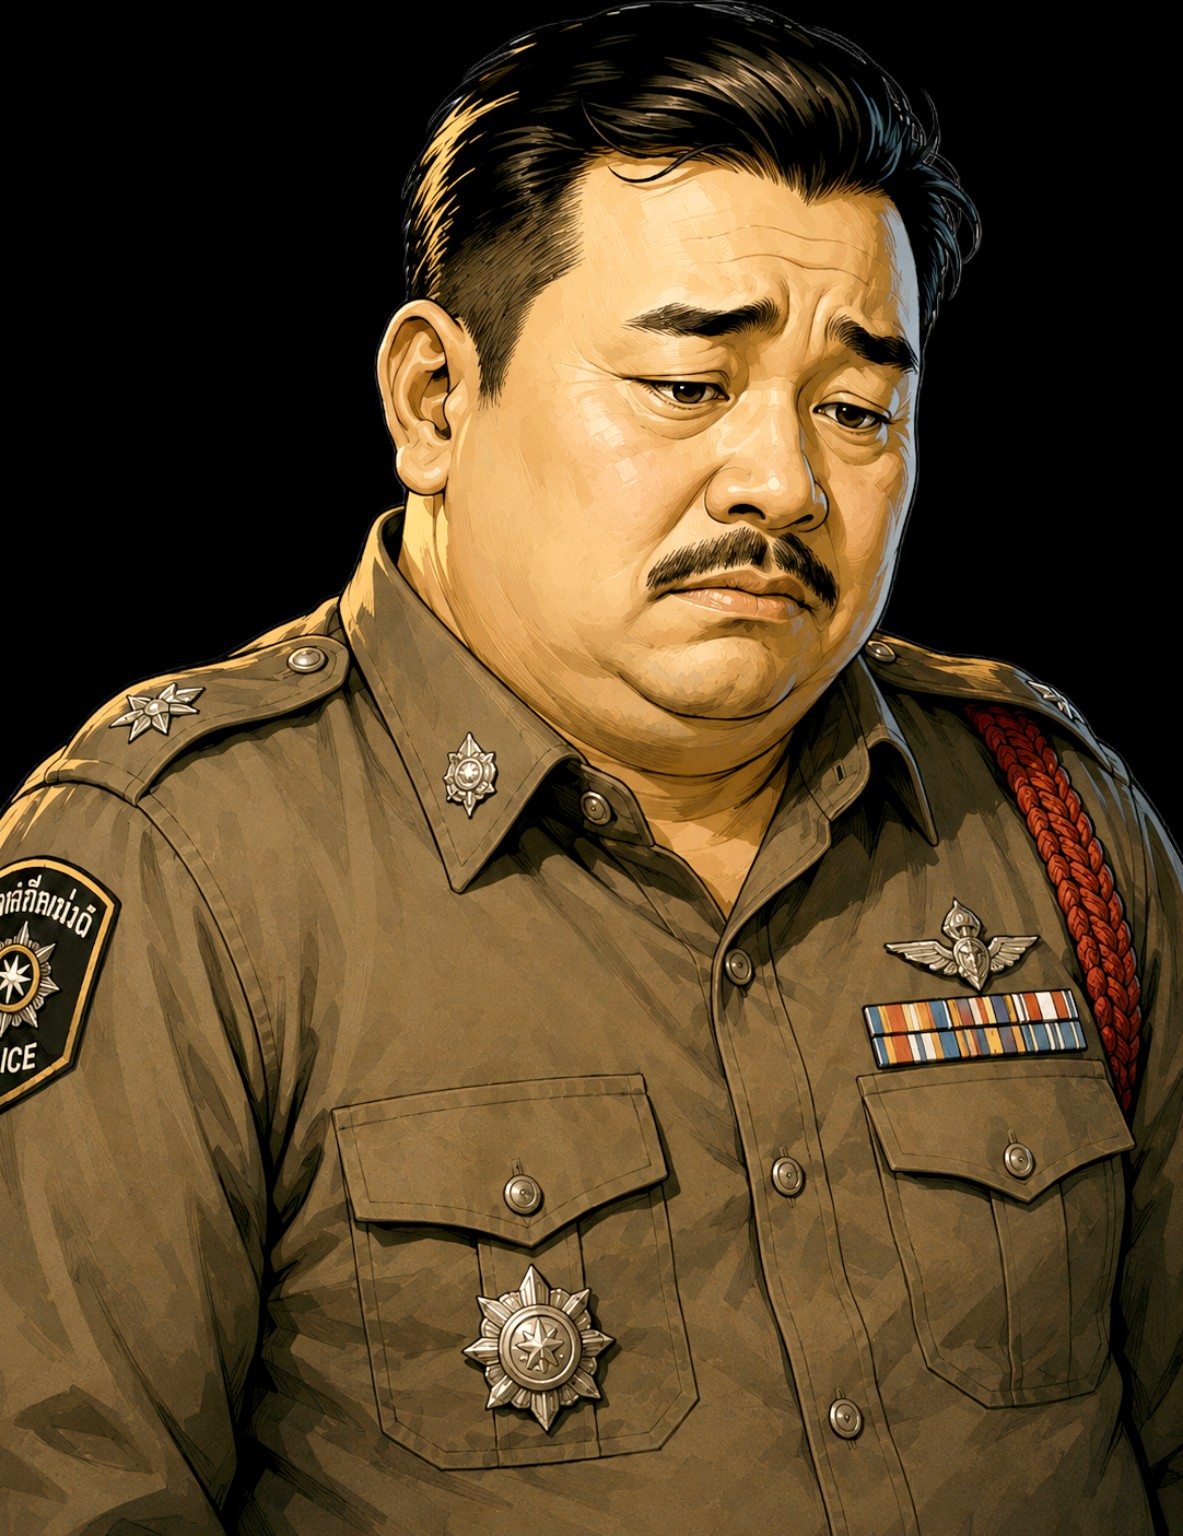
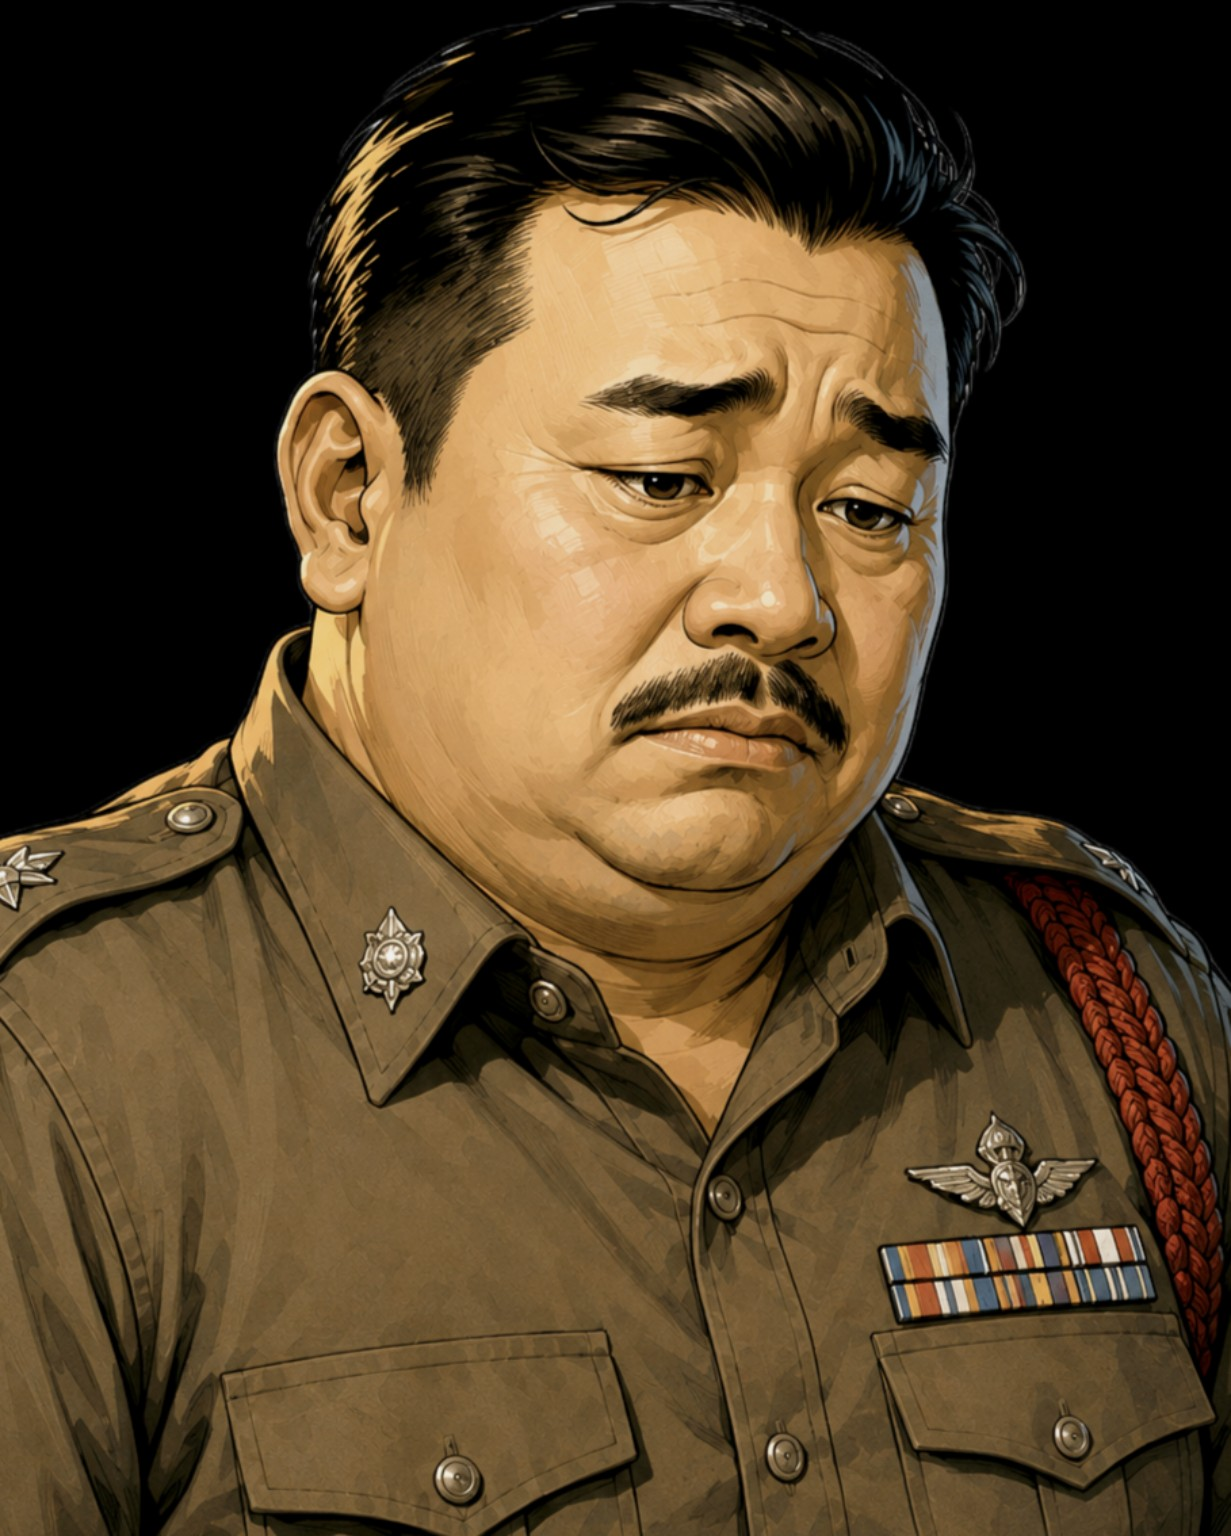
fix ch5p1 somchai portrait and ui

diff --git a/js/chapters/chapter-05/01-return-to-bangkok.js b/js/chapters/chapter-05/01-return-to-bangkok.js
@@ -1,19 +1,19 @@
-/* LAST WITNESS - Chapter V / Phase I: RETURN TO BANGKOK 0.22.7-c5p1r2
+/* LAST WITNESS - Chapter V / Phase I: RETURN TO BANGKOK 0.22.7-c5p1r4
  * Production Chapter V opening. Reuses the accepted Phase V/VII ordinary-scene
  * shell and Phase IV/VII location/completion language. Only CUSTODY WINDOW is
  * bespoke. No Hidden Case values are displayed or mutated here.
  */
 (function(){
 "use strict";
-const VERSION="0.22.7-c5p1r2";
+const VERSION="0.22.7-c5p1r4";
 if(window.LastWitnessChapter5Phase1?.version===VERSION){try{window.LastWitnessChapter5Phase1.install?.()}catch(_){}return}
 
 const BASE="assets/images/chapter-05/phase-01/";
 const VIDEO="assets/video/chapter-05/phase-01/";
 const AUDIO="assets/audio/chapter-05/phase-01/";
 const POLICE_IMAGE="assets/images/b06c89de9255c034.png";
-const SOMCHAI_SHOCK=BASE+"somchai-shocked.png?v=0227c5p1r2";
-const SOMCHAI_SAD=BASE+"somchai-sad.png?v=0227c5p1r2";
+const SOMCHAI_SHOCK=BASE+"somchai-shocked.png?v=0227c5p1r4";
+const SOMCHAI_SAD=BASE+"somchai-sad.png?v=0227c5p1r4";
 
 const LANDING="ch5P1Landing";
 const ARRIVAL="ch5P1ArrivalCard";
@@ -80,19 +80,19 @@ function scene(id,image,labelId,extra=""){return `<section id="${id}" class="scr
 function inject(){
  if($("#"+LANDING))return true;const game=$("#game");if(!game)return false;
  game.insertAdjacentHTML("beforeend",`
- <section id="${LANDING}" class="screen ch5-p1-video"><video id="ch5P1LandingVideo" playsinline webkit-playsinline preload="auto"><source src="${VIDEO}bangkok-landing.mp4?v=0227c5p1" type="video/mp4"></video><div class="ch4-p5-shade"></div><div id="ch5P1LandingStatus" class="ch5-p1-video-status"></div><button id="ch5P1LandingPlay" class="primary ch5-p1-video-play" type="button" hidden></button><button id="ch5P1LandingSkip" class="ghost ch5-p1-skip" type="button"></button></section>
+ <section id="${LANDING}" class="screen ch5-p1-video"><video id="ch5P1LandingVideo" playsinline webkit-playsinline preload="auto"><source src="${VIDEO}bangkok-landing.mp4?v=0227c5p1r4" type="video/mp4"></video><div class="ch4-p5-shade"></div><div id="ch5P1LandingStatus" class="ch5-p1-video-status"></div><button id="ch5P1LandingPlay" class="primary ch5-p1-video-play" type="button" hidden></button><button id="ch5P1LandingSkip" class="ghost ch5-p1-skip" type="button"></button></section>
  <section id="${ARRIVAL}" class="screen ch4-p4-location"><div id="ch5P1ArrivalCardInner" class="ch4-p4-location-card"><div id="ch5P1ArrivalEye" class="eyebrow"></div><div id="ch5P1ArrivalCity" class="ch4-p4-location-city"></div><h2 id="ch5P1ArrivalName"></h2><div class="ch4-p4-location-rule"></div><p id="ch5P1ArrivalBody"></p></div></section>
  ${scene(POLICE,POLICE_IMAGE,"ch5P1PoliceLocation")}
- ${scene(BRIEFING,BASE+"police-briefing-room.png?v=0227c5p1","ch5P1BriefingLocation")}
- <section id="${WALK}" class="screen ch5-p1-video"><video id="ch5P1WalkVideo" playsinline webkit-playsinline preload="auto"><source src="${VIDEO}walk-to-condo.mp4?v=0227c5p1" type="video/mp4"></video><div class="ch4-p5-shade"></div><div id="ch5P1WalkStatus" class="ch5-p1-video-status"></div><button id="ch5P1WalkPlay" class="primary ch5-p1-video-play" type="button" hidden></button><button id="ch5P1WalkSkip" class="ghost ch5-p1-skip" type="button"></button></section>
+ ${scene(BRIEFING,BASE+"police-briefing-room.png?v=0227c5p1r4","ch5P1BriefingLocation")}
+ <section id="${WALK}" class="screen ch5-p1-video"><video id="ch5P1WalkVideo" playsinline webkit-playsinline preload="auto"><source src="${VIDEO}walk-to-condo.mp4?v=0227c5p1r4" type="video/mp4"></video><div class="ch4-p5-shade"></div><div id="ch5P1WalkStatus" class="ch5-p1-video-status"></div><button id="ch5P1WalkPlay" class="primary ch5-p1-video-play" type="button" hidden></button><button id="ch5P1WalkSkip" class="ghost ch5-p1-skip" type="button"></button></section>
  <section id="${CONDO_CARD}" class="screen ch4-p4-location"><div id="ch5P1CondoCardInner" class="ch4-p4-location-card"><div id="ch5P1CondoEye" class="eyebrow"></div><div id="ch5P1CondoCity" class="ch4-p4-location-city"></div><h2 id="ch5P1CondoName"></h2><div class="ch4-p4-location-rule"></div><p id="ch5P1CondoBody"></p><button id="ch5P1CondoContinue" class="primary" type="button"></button></div></section>
- ${scene(CONDO,BASE+"benedict-condo-interior.jpg?v=0227c5p1","ch5P1CondoLocation")}
- ${scene(REVEAL,BASE+"north-safehouse-reveal.jpg?v=0227c5p1","ch5P1RevealLocation","ch5-p1-reveal")}
+ ${scene(CONDO,BASE+"benedict-condo-interior.jpg?v=0227c5p1r4","ch5P1CondoLocation")}
+ ${scene(REVEAL,BASE+"north-safehouse-reveal.jpg?v=0227c5p1r4","ch5P1RevealLocation","ch5-p1-reveal")}
  <div id="ch5P1Custody" class="modal ch5-p1-custody" aria-hidden="true"><div class="modal-card"><header class="ch5-p1-custody-head"><div class="eyebrow" id="ch5P1CustodyEye"></div><h3 id="ch5P1CustodyTitle"></h3><p id="ch5P1CustodyBody"></p><button id="ch5P1CustodyClose" class="ghost ch5-p1-custody-close" type="button" aria-label="Close">×</button><div class="ch5-p1-step"><span id="ch5P1CustodyStepLabel"></span><div><i id="ch5P1CustodyStepFill"></i></div></div></header><div class="ch5-p1-custody-scroll"><div id="ch5P1CustodyAirborne" class="ch5-p1-airborne"></div><div id="ch5P1CustodyWork"></div></div><div id="ch5P1CustodyStatus" class="ch5-p1-custody-status" aria-live="polite"></div><footer class="ch5-p1-custody-foot"><button id="ch5P1CustodyReset" class="ghost" type="button"></button><button id="ch5P1CustodyConfirm" class="primary" type="button"></button></footer></div></div>
  <div id="ch5P1Influence" class="modal ch5-p1-influence" aria-hidden="true"><div class="modal-card"><div class="eyebrow" id="ch5P1InfluenceEye"></div><h3 id="ch5P1InfluenceTitle"></h3><p id="ch5P1InfluenceBody"></p><div id="ch5P1InfluenceGrid" class="ch5-p1-influence-grid"></div></div></div>
  <section id="${COMPLETE}" class="screen ch4-p4-complete ch5-p1-complete"><div class="ch4-p4-complete-card"><div id="ch5P1CompleteEye" class="eyebrow"></div><h2 id="ch5P1CompleteTitle"></h2><div class="ch4-p4-location-rule"></div><p id="ch5P1CompleteBody"></p><div class="ch4-p4-complete-grid"><div><span id="ch5P1ResultReturn"></span><b id="ch5P1ValueReturn"></b></div><div><span id="ch5P1ResultNorth"></span><b id="ch5P1ValueNorth"></b></div><div><span id="ch5P1ResultCustody"></span><b id="ch5P1ValueCustody"></b></div><div><span id="ch5P1ResultRoom"></span><b id="ch5P1ValueRoom"></b></div></div><strong id="ch5P1Next"></strong><button id="ch5P1ReturnTitle" class="primary" type="button"></button></div>${progressMarkup()}</section>
- <audio id="ch5P1OpeningScore" preload="auto" src="${AUDIO}opening-scene-c5p1.mp3?v=0227c5p1"></audio>
- <audio id="ch5P1WalkScore" preload="auto" src="${AUDIO}walk-to-condo-scene.mp3?v=0227c5p1"></audio>`);
+ <audio id="ch5P1OpeningScore" preload="auto" src="${AUDIO}opening-scene-c5p1.mp3?v=0227c5p1r4"></audio>
+ <audio id="ch5P1WalkScore" preload="auto" src="${AUDIO}walk-to-condo-scene.mp3?v=0227c5p1r4"></audio>`);
  bindUi();updateLanguage();syncProgress();return true
 }
 
@@ -102,9 +102,13 @@ function recordLine(line){try{const s=gs();s.history=s.history||[];s.history.pus
 function renderDialogue(){
  const box=dialogueBox();if(!box||!dialogue)return;const line=dialogue.lines[dialogue.i];if(!line)return;
  const right=line.speaker!=="Benedict",src=originalPortrait(line.speaker,line.emotion||"neutral");
- box.className="dialogue ch4-p5-dialogue ch5-p1-dialogue"+(right?" right":"");
- const portraitClass=line.speaker==="Somchai"?"portrait ch5-p1-somchai-portrait":"portrait";
- box.innerHTML=`<div class="portrait-wrap">${src?`<img class="${portraitClass}" src="${src}" alt="">`:""}</div><div class="dialogue-copy"><div class="speaker">${line.speaker}</div><div class="line">${thai()?line.th:line.en}</div><div class="next">${tr("Tap to continue","แตะเพื่อดำเนินต่อ")}</div></div>`;
+ const speakerKey=String(line.speaker||"character").toLowerCase().replace(/[^a-z0-9]+/g,"-");
+ box.className="dialogue ch4-p5-dialogue ch5-p1-dialogue ch5-p1-speaker-"+speakerKey+(right?" right":"");
+ const portraitClass=["portrait","ch5-p1-portrait","ch5-p1-speaker-"+speakerKey+"-portrait"];
+ if(line.speaker==="Somchai")portraitClass.push("ch5-p1-somchai-portrait");
+ if(line.speaker==="North")portraitClass.push("ch5-p1-north-portrait");
+ if(line.speaker==="Benedict")portraitClass.push("ch5-p1-benedict-portrait");
+ box.innerHTML=`<div class="portrait-wrap">${src?`<img class="${portraitClass.join(" ")}" src="${src}" alt="">`:""}</div><div class="dialogue-copy"><div class="speaker">${line.speaker}</div><div class="line">${thai()?line.th:line.en}</div><div class="next">${tr("Tap to continue","แตะเพื่อดำเนินต่อ")}</div></div>`;
  dialogueActive=true;syncAudio()
 }
 function startDialogue(lines,onDone){dialogue={lines:clone(lines),i:0,onDone};recordLine(dialogue.lines[0]);renderDialogue()}

diff --git a/css/chapter-05-phase-01.css b/css/chapter-05-phase-01.css
@@ -1,4 +1,4 @@
-/* LAST WITNESS - Chapter V / Phase I: RETURN TO BANGKOK 0.22.7-c5p1r2
+/* LAST WITNESS - Chapter V / Phase I: RETURN TO BANGKOK 0.22.7-c5p1r4
  * Reuse-first production surface. Ordinary scenes inherit the accepted
  * Chapter IV Phase V / VII shell; only CUSTODY WINDOW is bespoke.
  */
@@ -26,6 +26,32 @@
 .ch5-p1-scene-note{position:absolute;z-index:13;top:calc(151px + env(safe-area-inset-top));left:16px;right:16px;max-width:570px;color:#aebbc0;font:700 10px/1.45 ui-monospace,monospace;letter-spacing:.055em;text-shadow:0 2px 8px #000}
 .ch5-p1-reveal>.scene{animation:ch5P1Reveal 5.8s cubic-bezier(.2,.62,.24,1) both;transform-origin:48% 35%}
 @keyframes ch5P1Reveal{from{transform:scale(1.005)}to{transform:scale(1.027)}}
+
+
+.ch5-p1-video-status{top:calc(58px + env(safe-area-inset-top));padding:8px 12px 8px 11px;background:linear-gradient(90deg,rgba(3,6,10,.88),rgba(3,6,10,.22) 82%,transparent)}
+#ch5P1WalkStatus{top:calc(42px + env(safe-area-inset-top))}
+
+.ch5-p1-dialogue.ch4-p5-dialogue{background:linear-gradient(180deg,rgba(6,10,16,.94),rgba(3,7,12,.92));border:1px solid rgba(221,181,109,.28);box-shadow:0 16px 36px rgba(0,0,0,.42),inset 0 1px 0 rgba(255,255,255,.03);backdrop-filter:blur(8px)}
+.ch5-p1-dialogue .portrait-wrap{position:relative;background:#05070b;overflow:hidden}
+.ch5-p1-dialogue .portrait-wrap::after{content:"";position:absolute;inset:0;background:linear-gradient(180deg,rgba(0,0,0,.02),rgba(0,0,0,.12));pointer-events:none}
+.ch5-p1-dialogue .dialogue-copy{position:relative;padding:16px 18px 31px;background:linear-gradient(180deg,rgba(5,8,13,.92),rgba(3,6,10,.95));overflow:hidden}
+.ch5-p1-dialogue .dialogue-copy::before{content:"";position:absolute;inset:0;background:rgba(4,7,12,.18);pointer-events:none}
+.ch5-p1-dialogue .speaker,.ch5-p1-dialogue .line,.ch5-p1-dialogue .next{position:relative;z-index:1}
+.ch5-p1-dialogue .speaker{margin-bottom:10px}
+.ch5-p1-dialogue .line{max-width:98%}
+.ch5-p1-dialogue .next{bottom:9px;right:14px}
+.ch5-p1-dialogue .portrait{width:100%;height:100%;object-fit:cover;object-position:center 16%;transform:none}
+.ch5-p1-dialogue .ch5-p1-portrait{transform:scale(.965);transform-origin:center 18%}
+.ch5-p1-dialogue.right .ch5-p1-portrait{transform:scale(.955);transform-origin:center 18%}
+.ch5-p1-dialogue .ch5-p1-north-portrait{object-position:56% 14%;transform:scale(.92);transform-origin:center 14%}
+.ch5-p1-dialogue .ch5-p1-benedict-portrait{object-position:50% 16%;transform:scale(.95)}
+.ch5-p1-dialogue .ch5-p1-somchai-portrait{object-fit:cover;object-position:50% 9%;transform:scale(1.02);transform-origin:center 12%;background:#000}
+
+#ch5P1Condo .scene{object-position:center 29%}
+#ch5P1NorthReveal .scene{object-position:center 24%}
+#ch5P1NorthReveal.ch5-p1-reveal>.scene{animation:ch5P1Reveal 5.8s cubic-bezier(.2,.62,.24,1) both;transform-origin:50% 26%}
+#ch5P1NorthRevealDialogue.ch5-p1-dialogue{bottom:calc(56px + var(--bottom,14px));min-height:174px}
+#ch5P1CondoDialogue.ch5-p1-dialogue{bottom:calc(58px + var(--bottom,14px))}
 
 /* CUSTODY WINDOW - bespoke internal interaction, established LAST WITNESS frame. */
 .ch5-p1-custody{z-index:455;background:radial-gradient(circle at 50% 14%,rgba(50,91,111,.19),transparent 40%),rgba(1,3,6,.92);backdrop-filter:blur(9px)}
@@ -81,10 +107,15 @@
 .ch5-p1-tool-note{margin-top:4px;color:#8f887e;font-size:9px;font-weight:800;letter-spacing:.12em}
 
 @media(max-width:520px){
- .ch5-p1-dialogue.ch4-p5-dialogue{min-height:164px;grid-template-columns:116px minmax(0,1fr)}
+ .ch5-p1-dialogue.ch4-p5-dialogue{min-height:168px;grid-template-columns:116px minmax(0,1fr)}
  .ch5-p1-dialogue.ch4-p5-dialogue.right{grid-template-columns:minmax(0,1fr) 116px}
  .ch5-p1-custody .modal-card{width:95vw;max-height:calc(100dvh - 16px)}
  .ch5-p1-custody-scroll{padding:12px 12px 7px}
  .ch5-p1-custody-foot{padding-left:12px;padding-right:12px}
+ .ch5-p1-dialogue .dialogue-copy{padding:15px 16px 30px}
+ .ch5-p1-dialogue .ch5-p1-north-portrait{transform:scale(.89);object-position:58% 13%}
+ .ch5-p1-dialogue .ch5-p1-somchai-portrait{transform:scale(1.01);object-position:50% 9%}
+ .ch5-p1-video-status{top:calc(54px + env(safe-area-inset-top))}
+ #ch5P1WalkStatus{top:calc(38px + env(safe-area-inset-top))}
 }
 html[lang="th"] .ch5-p1-video-status,html[lang="th"] .ch5-p1-record small,html[lang="th"] .ch5-p1-airborne,html[lang="th"] .ch5-p1-finding{letter-spacing:.025em}

diff --git a/js/engine/34-chapter-05-owner-walkthrough.js b/js/engine/34-chapter-05-owner-walkthrough.js
@@ -1,11 +1,11 @@
-/* LAST WITNESS - Chapter V Owner Walkthrough Extension 0.22.7-c5w1
+/* LAST WITNESS - Chapter V Owner Walkthrough Extension 0.22.7-c5w2
  * Read-only Chapter V Phase I extension for the accepted Owner Walkthrough UI.
  * It reads screen/checkpoint/Phase I state only and never mutates gameplay,
  * Save, Hidden Case, evidence, choices, progress, audio or North QA state.
  */
 (function(){
 "use strict";
-const VERSION="0.22.7-c5w1";
+const VERSION="0.22.7-c5w2";
 const BASE_VERSION="0.22.3-w1";
 if(window.LastWitnessChapter5OwnerWalkthrough?.version===VERSION){try{window.LastWitnessChapter5OwnerWalkthrough.install?.()}catch(_){}return}
 const $=(s,r=document)=>r.querySelector(s);
@@ -54,7 +54,7 @@ function render(){
  const fill=$("#lwWalkStepFill");if(fill)fill.style.width=`${((index+1)/STEPS.length)*100}%`;const badge=$("#lwWalkNoFail");if(badge)badge.hidden=!step.nofail;
  set("#lwWalkTitle",tr(step.title[0],step.title[1]));set("#lwWalkActionLabel",tr("NEXT ACTION","ทำอะไรต่อ"));set("#lwWalkAction",tr(step.action[0],step.action[1]));set("#lwWalkHintLabel",tr("HINT","คำใบ้"));set("#lwWalkHint",tr(step.hint[0],step.hint[1]));set("#lwWalkSolutionLabel",tr("VERIFIED SOLUTION","คำตอบที่ตรวจจาก Production"));set("#lwWalkSolution",tr(step.solution[0],step.solution[1]));
  const hb=$("#lwWalkHintBlock"),sb=$("#lwWalkSolutionBlock");if(hb)hb.hidden=!hint;if(sb)sb.hidden=!solution;set("#lwWalkHintButton",hint?tr("HIDE HINT","ซ่อนคำใบ้"):tr("HINT","คำใบ้"));set("#lwWalkSolutionButton",solution?tr("HIDE SOLUTION","ซ่อนคำตอบ"):tr("SHOW SOLUTION","แสดงคำตอบ"));
- const prev=$("#lwWalkPrev"),next=$("#lwWalkNext");if(prev)prev.disabled=index===0;if(next)next.disabled=index===STEPS.length-1;const pill=$("#lwOwnerWalkthroughPill");if(pill)pill.textContent=`WALKTHROUGH · C5P1 · ${index+1}/${STEPS.length}`;const build=$("#lwOwnerWalkthrough .lw-walk-build");if(build)build.textContent=`${BASE_VERSION} · C5 ${VERSION}`;return true
+ const prev=$("#lwWalkPrev"),next=$("#lwWalkNext");if(prev)prev.disabled=index===0;if(next)next.disabled=index===STEPS.length-1;const pill=$("#lwOwnerWalkthroughPill");if(pill)pill.textContent=`WALKTHROUGH · C5P1 · ${index+1}/${STEPS.length}`;const build=$("#lwOwnerWalkthrough .lw-walk-build");if(build)build.textContent=`${BASE_VERSION} · C5W ${VERSION} · P1 0.22.7-c5p1r4`;return true
 }
 function activate(sync=true){
  const base=walk();if(!base)return false;if(!$("#lwOwnerWalkthrough"))base.install?.();if(!$("#lwOwnerWalkthrough"))return false;markBaseManual();active=true;manual=!sync;hint=false;solution=false;index=sync?stepIndexFromGame():0;render();armSync();return true

diff --git a/js/engine/33-chapter-05-loader.js b/js/engine/33-chapter-05-loader.js
@@ -9,8 +9,8 @@ if(window.LastWitnessChapter5Bootstrap?.version===VERSION)return;
 function stylesheet(href,id){if(document.getElementById(id))return;const n=document.createElement("link");n.id=id;n.rel="stylesheet";n.href=href;document.head.appendChild(n)}
 function script(src,id,ready){const existing=document.getElementById(id);if(ready?.())return Promise.resolve();if(existing?.dataset.loaded==="1")return Promise.resolve();if(existing?.__lwPromise)return existing.__lwPromise;const n=existing||document.createElement("script");n.id=id;n.src=src;n.async=false;n.__lwPromise=new Promise((resolve,reject)=>{n.addEventListener("load",()=>{n.dataset.loaded="1";resolve()},{once:true});n.addEventListener("error",reject,{once:true})});if(!existing)document.body.appendChild(n);return n.__lwPromise}
 function install(){
- stylesheet("css/chapter-05-phase-01.css?v=0227c5p1r2","lwChapter05Phase01Style");
- return script("js/chapters/chapter-05/01-return-to-bangkok.js?v=0227c5p1r2","lwChapter05Phase01Script",()=>Boolean(window.LastWitnessChapter5Phase1?.version==="0.22.7-c5p1r2"&&window.LastWitnessChapter5Phase1?.installed))
+ stylesheet("css/chapter-05-phase-01.css?v=0227c5p1r4","lwChapter05Phase01Style");
+ return script("js/chapters/chapter-05/01-return-to-bangkok.js?v=0227c5p1r4","lwChapter05Phase01Script",()=>Boolean(window.LastWitnessChapter5Phase1?.version==="0.22.7-c5p1r4"&&window.LastWitnessChapter5Phase1?.installed))
   .then(()=>{try{window.LastWitnessChapter5Phase1.install?.()}catch(_){};return script("js/engine/34-chapter-05-owner-walkthrough.js?v=0227c5w1","lwChapter05OwnerWalkthroughScript",()=>Boolean(window.LastWitnessChapter5OwnerWalkthrough?.version==="0.22.7-c5w1"&&window.LastWitnessChapter5OwnerWalkthrough?.installed))})
   .then(()=>{try{window.LastWitnessChapter5OwnerWalkthrough?.install?.()}catch(_){}})
   .catch(error=>console.error("LAST WITNESS Chapter V Phase I extension failed to load",error))

diff --git a/docs/QA_REPORT_CH5P1_0.22.7-c5p1r4.md b/docs/QA_REPORT_CH5P1_0.22.7-c5p1r4.md
@@ -1,0 +1,54 @@
+# QA REPORT — LAST WITNESS
+## Chapter V Phase I — Return to Bangkok
+Build: `0.22.7-c5p1r4`
+Date: 2026-08-16
+
+## Scope
+Revision 4 applies the exact Somchai portrait assets supplied in the latest owner message and preserves the prior targeted fixes from Revision 3.
+
+## Implemented in this revision
+1. Replaced `somchai-sad.png` with the exact supplied sad / grieving Somchai portrait.
+2. Replaced `somchai-shocked.png` with the exact supplied shocked Somchai portrait.
+3. Tuned Somchai portrait crop rules so Chapter V Phase I dialogue presentation matches the previously accepted portrait sizing pattern more closely.
+4. Retained previously requested fixes already present in Revision 3:
+   - stronger dialogue panel opacity
+   - raised condominium walk clip timestamp placement
+   - improved North condominium framing
+   - improved North portrait crop
+   - updated walkthrough sync/build label
+
+## Files changed
+- `assets/images/chapter-05/phase-01/somchai-sad.png`
+- `assets/images/chapter-05/phase-01/somchai-shocked.png`
+- `css/chapter-05-phase-01.css`
+- `js/chapters/chapter-05/01-return-to-bangkok.js`
+- `js/engine/33-chapter-05-loader.js`
+- `js/engine/34-chapter-05-owner-walkthrough.js`
+- `docs/CHAPTER_05_PHASE_01_REVISION_4.md`
+- `docs/QA_REPORT_CH5P1_0.22.7-c5p1r4.md`
+- `docs/UPLOAD_PATHS_CH5P1_0.22.7-c5p1r4.txt`
+- `docs/MANIFEST_SHA256_CH5P1_0.22.7-c5p1r4.txt`
+
+## Automated validation
+### `run_r2_qa.py`
+- PASS
+- No page errors
+- No console errors
+- Walkthrough still opens and syncs to Custody Window
+- Walkthrough build label: `0.22.3-w1 · C5W 0.22.7-c5w2 · P1 0.22.7-c5p1r4`
+
+### `run_arrival_lifecycle_qa.py`
+- PASS
+- No errors
+- Arrival card lifecycle / resume behavior preserved
+
+### `run_custody_qa.py`
+- PASS
+- No errors
+- Custody Window puzzle flow preserved
+
+## Notes
+Visual test harnesses in this environment are limited, but the actual Somchai dialogue asset files were replaced directly and the package was revalidated after the change.
+
+## Conclusion
+Build `0.22.7-c5p1r4` is ready as the refreshed upload-only package for Chapter V Phase I.

diff --git a/docs/CHAPTER_05_PHASE_01_REVISION_4.md b/docs/CHAPTER_05_PHASE_01_REVISION_4.md
@@ -1,0 +1,16 @@
+# CHAPTER 05 PHASE 01 — REVISION 4
+
+**Build:** `0.22.7-c5p1r4`
+
+## Purpose
+Apply the exact latest Somchai portrait assets requested by the owner and keep all earlier accepted defect fixes intact.
+
+## Revision 4 changes
+- Replaced Phase I Somchai sad portrait with the exact supplied sad asset.
+- Replaced Phase I Somchai shocked portrait with the exact supplied shocked asset.
+- Kept Somchai dialogue portrait framing aligned to the accepted dialogue box size pattern.
+- Preserved the prior fixes from Revision 3 without broadening the scope.
+- Bumped cache/query version to `0227c5p1r4`.
+
+## Regression policy
+Only the minimum file set was updated to avoid affecting systems already behaving correctly.
